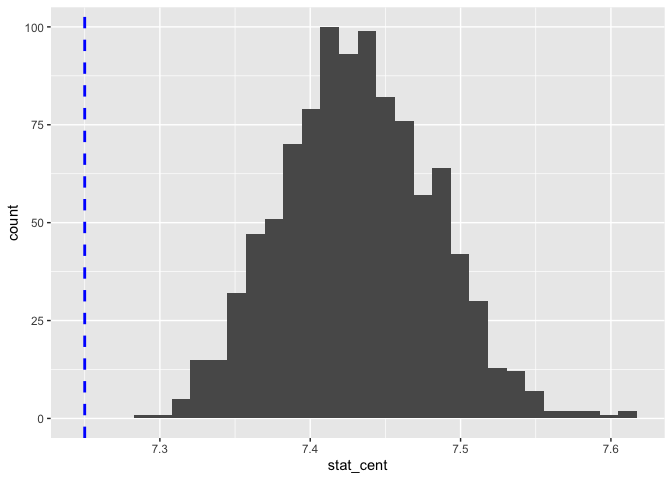
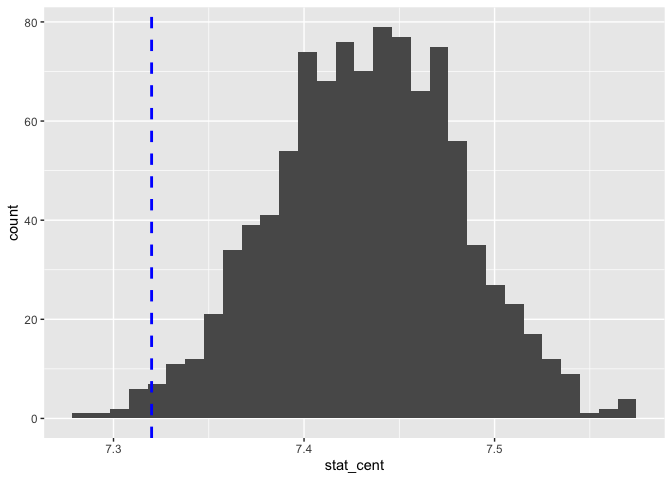
got part of the way through the second analysis

diff --git a/lab-12.md b/lab-12.md
@@ -44,15 +44,15 @@ ncbirths_long %>%
 
 ![](lab-12_files/figure-gfm/numeric-summaries-1.png)<!-- -->
 
-Distributions are mostly balanced, with some high outliers on the amount
-of weight gained during pregnancy and low outliers on the number of
-weeks of pregnancy (which I assume are labeled as premature births with
-the “premie” variable).
+Distributions are mostly balanced, but there is at least one outlier on
+each variable. The collections of high outliers on weight gained during
+pregnancy and low outliers on weeks and birth weight might be
+problematic for future analyses.
 
 ### Exercise 2
 
 ``` r
-ncbirths_white <- ncbirths %>%
+ncbirths_white <- ncbirths%>%
   filter(whitemom %in% c("white"))
 
 mean(ncbirths_white$weight)
@@ -71,9 +71,47 @@ mean(ncbirths_white$weight)
 - ncbirths_white has 714 observations, which I believe would be a
   reasonably large sample size for bootstrapping.
 
-- In the boxplots from Exercise 1, I do not see any extreme skew or
-  clustering that would cause problems. (\*consider returning to this
-  one and removing low weight outliers)
+- In the box plot from Exercise 1, I see a collection of low outliers,
+  as well as a couple of high outliers, that might influence the results
+  when analyzing birth weight. I chose to restrict my range to 3
+  standard deviations above and below the mean:
+
+``` r
+ncbirths %>%
+  ggplot(aes(x = weight)) +
+  geom_boxplot() +
+  labs(title = 'Distribution of birth weights before filtering to deal with outliers')
+```
+
+![](lab-12_files/figure-gfm/birth-weight-chart-1.png)<!-- -->
+
+``` r
+ncbirths_filtered <- ncbirths %>%
+  filter(weight <= 11.63) %>%
+  filter(weight >= 2.57)
+
+ncbirths_filtered %>%
+  ggplot(aes(x = weight)) +
+  geom_boxplot() +
+  labs(title = 'Distribution of birth weights after filtering to deal with outliers')
+```
+
+![](lab-12_files/figure-gfm/birth-weight-chart-2.png)<!-- -->
+
+Now I need to update my dataframe before running the bootstrapping
+simulation:
+
+``` r
+ncbirths_white <- ncbirths_filtered%>%
+  filter(whitemom %in% c("white"))
+
+mean(ncbirths_white$weight)
+```
+
+    ## [1] 7.321764
+
+The mean is slightly higher after removing the outliers. The sample size
+decreased from 714 to 703, so not a substantial change.
 
 ### Exercise 4a
 
@@ -92,11 +130,11 @@ boot_df <- ncbirths_white %>%
 mean(boot_df$stat)
 ```
 
-    ## [1] 7.251568
+    ## [1] 7.322748
 
 ``` r
 boot_df <- boot_df %>%
-  mutate(stat_cent1 = stat - 7.25) %>%
+  mutate(stat_cent1 = stat - 7.32) %>%
   mutate(stat_cent = stat_cent1 + 7.43)
 ```
 
@@ -106,7 +144,7 @@ boot_df <- boot_df %>%
 boot_df %>%
   ggplot(aes(x = stat_cent)) +
   geom_histogram() +
-  geom_vline(aes(xintercept = 7.25),
+  geom_vline(aes(xintercept = 7.32),
              color = "blue",
              linetype = "dashed",
              linewidth = 1)
@@ -125,13 +163,87 @@ boot_df %>%
     ## # A tibble: 1 × 2
     ##   lower upper
     ##   <dbl> <dbl>
-    ## 1  7.34  7.54
+    ## 1  7.33  7.53
 
-The mean of the simulated means fell outside of the 95% confidence
-interval, meaning that the simulated mean (7.25) was significantly lower
-than the mean weight set as the population value (7.43)
+The mean of the simulated means fell just outside of the 95% confidence
+interval, meaning that just about 5% of the simulated means were at
+least as extreme as my observed value.
 
 ### Exercise 4e
 
-Based on my results, it seems that birth weight has decreased
-significantly since 2004.
+The mean birth weight was significantly lower than 7.43 pounds,
+informing the conclusion that average birth weight for white babies has
+decreased significantly since 1995.
+
+### Exercise 5
+
+``` r
+ncbirths_filtered %>%
+  ggplot(aes(x = weight)) +
+  geom_boxplot() +
+  facet_wrap(~habit, nrow = 3)
+```
+
+![](lab-12_files/figure-gfm/habit-weight-boxplot-1.png)<!-- -->
+
+Distributions of birth weights for babies of smoking and non-smoking
+mothers were similar, but the average birth weight was higher for babies
+of non-smokers than babies of smokers. Both distributions were somewhat
+skewed to the left.
+
+### Exercise 6
+
+``` r
+ncbirths_clean <- ncbirths_filtered %>%
+  filter(!is.na(habit)) %>%
+  filter(!is.na(weight))
+```
+
+It is important to clean the data before obtaining group summaries
+because participants with missing data on “habit” will not fall under
+either group of interest and participants with missing data on “weight”
+do not provide information about the main dependent variable of
+interest.
+
+### Exercise 7
+
+``` r
+ncbirths_clean %>%
+  group_by(habit) %>%
+  summarize(mean_weight = mean(weight))
+```
+
+    ## # A tibble: 2 × 2
+    ##   habit     mean_weight
+    ##   <fct>           <dbl>
+    ## 1 nonsmoker        7.26
+    ## 2 smoker           6.91
+
+7.26 - 6.91 = 0.35. The average difference in birth weight for
+non-smoking vs. smoking mothers is 0.35 pounds.
+
+### Exercise 8
+
+- Null hypothesis: The difference in the average birth weights of babies
+  of non-smoking vs. smoking mothers is not significantly different
+  from 0. (H0: µ1 - µ2 = 0)
+
+- Alternative hypothesis: The difference in the average birth weights of
+  babies of non-smoking vs. smoking mothers is significantly different
+  from 0. (H1: µ1 - µ2 =/= 0)
+
+### Exercise 9
+
+To test whether maternal smoking is associated with a difference in
+birth weight, we could simulate a distribution of mean differences in
+birth weight between babies of non-smoking and smoking mothers to see if
+the simulated mean was significantly different from 0.
+
+- I think permutation would be the most appropriate method for this kind
+  of hypothesis testing. \*\*I need to review the ODD in the module and
+  come back to this!
+
+- The observed test statistic is the sample mean difference in birth
+  weight between babies of non-smoking vs. smoking mothers (0.35).
+
+- 
